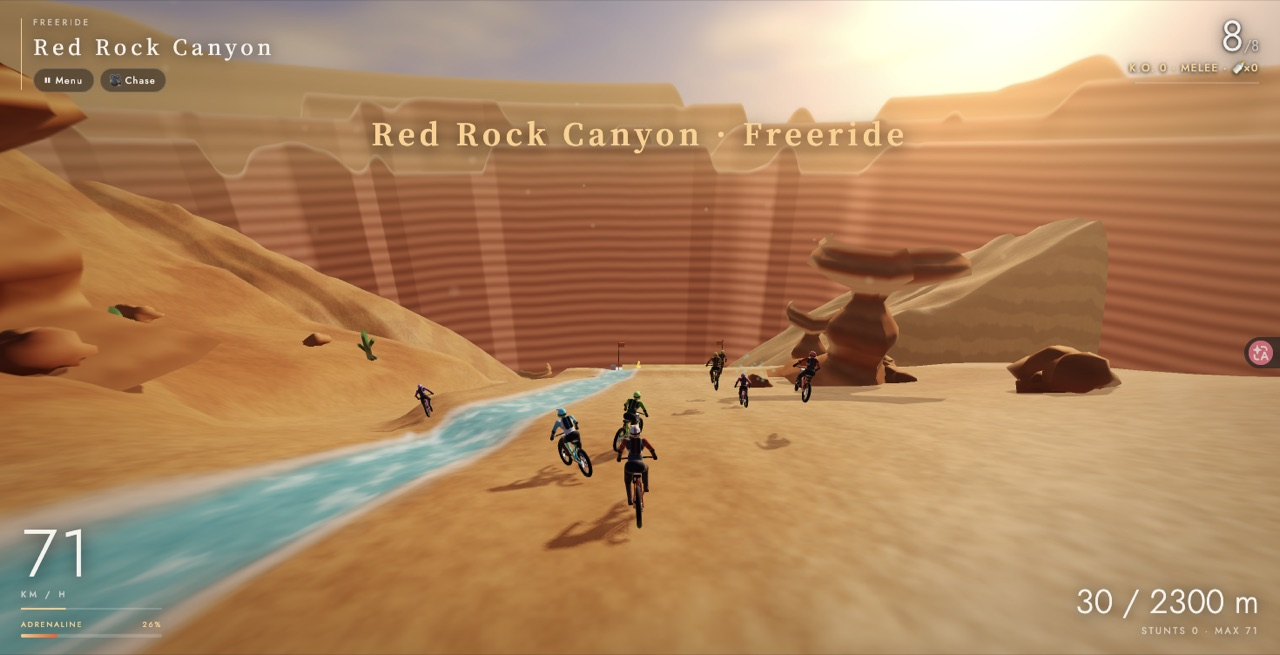
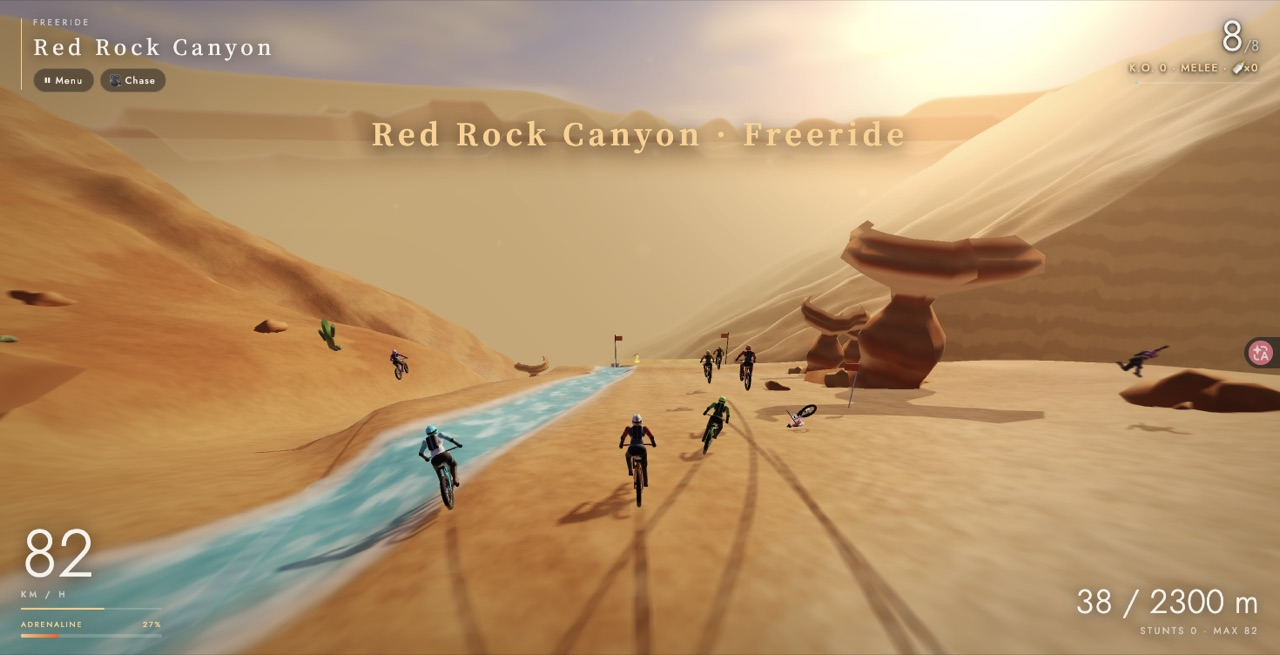
docs(v7-readme): update V7 screenshots and English/Chinese READMEs

diff --git a/README.md b/README.md
@@ -2,7 +2,7 @@
 
 <h1>CRAZYBIKE · Downhill Mayhem</h1>
 
-<p><strong>A single-file WebGPU &amp; WebGL2 procedural downhill mountain biking game — sculpted canyons, endless alpine trails, cliff drops, ink-ribbon aerial stunts, pickup-driven nitro/water-bottle combat, and live 3D camera inspection.</strong></p>
+<p><strong>A single-file WebGPU &amp; WebGL2 procedural downhill mountain biking game — 820 m seamless panoramic mountains, 4 sculpted biomes, persistent 3D carved tire tracks, realistic MTB bunny hops vs. cliff big air, ink-ribbon stunts, pickup combat, and live 3D camera inspection.</strong></p>
 
 <p>
   <a href="https://crazybike.yepw.dev"><strong>Play Live (crazybike.yepw.dev)</strong></a>
@@ -11,13 +11,13 @@
 </p>
 
 <p>
-  <img src="https://img.shields.io/badge/WebGPU%20%2B%20WebGL2-Dual%20Backend-0ea5e9?style=flat-square" alt="WebGPU + WebGL2">
-  <img src="https://img.shields.io/badge/Single%20File-335.6%20KB%20(~111%20KB%20gz)-10b981?style=flat-square" alt="Bundle Size">
+  <img src="https://img.shields.io/badge/WebGPU%20%2B%20WebGL2-10%20Pipelines-0ea5e9?style=flat-square" alt="WebGPU + WebGL2">
+  <img src="https://img.shields.io/badge/Single%20File-347.8%20KB%20(~114%20KB%20gz)-10b981?style=flat-square" alt="Bundle Size">
   <img src="https://img.shields.io/badge/Zero%20Deps-28%20Modules-f59e0b?style=flat-square" alt="Zero Dependencies">
-  <img src="https://img.shields.io/badge/Verify-19%2F19%20PASS-22c55e?style=flat-square" alt="Verify Passing">
+  <img src="https://img.shields.io/badge/Verify-20%2F20%20PASS-22c55e?style=flat-square" alt="Verify Passing">
 </p>
 
-<img src="docs/media/hero.jpg" alt="CrazyBike V6 Red Rock Canyon Downhill" width="100%">
+<img src="docs/media/hero.jpg" alt="CrazyBike V7 Red Rock Canyon Carved Tire Tracks & Downhill" width="100%">
 
 </div>
 
@@ -25,21 +25,18 @@
 
 ## Highlights
 
-- **Dual GPU Engine (`WebGPU` + `WebGL2`):** Single-source typed shader language (SSL) compiled at boot to both WGSL and GLSL ES 3.00 with crisp PCF directional shadows, volumetric sky scattering, ACES filmic tone mapping, bloom, and speed-adaptive atmospheric haze.
-- **4 Sculpted Procedural Biomes:**
-  - **Red Rock Canyon** — Stepped sandstone mesas, sculpted hoodoos, fluted saguaros, canyon creeks, and massive stratified cliff drops.
-  - **Pine Forest** — Jagged snow-capped granite peaks, valley cloud seas, drooping layered conifer boughs, boulders, and endless boundary-free mountain freeride.
-  - **Volcanic Ridge** — Smoking caldera crest with lava rim glow, glowing magma channels, and jagged basalt spires.
-  - **Hillside Town** — Mediterranean headlands, gleaming sunlit ocean waves, pitched-roof coastal villas, terraced stone steps, and soaring gulls.
-- **Pickup-Driven Combat & Biomechanical Melee:**
-  - Randomly spawned **Nitro Canisters** and **Water Bottles** along ramps, cliffs, and open lines replace infinite ammo refills.
-  - Thrown water bottles home onto targets only within bounded range (`≤ 26 m`). Out of pickups, pressing attack performs a randomized **Human Punch** or **Flying Kick** with custom 3-phase skeletal kinematics and distinct audio cues.
-  - **Strict Knockdown Rules:** Normal high-speed bumps trade paint safely; ragdoll knockdowns occur strictly from **Flying Kicks** or **Water Bottle** hits (plus a Settings toggle for casual freeride), with guaranteed upright recovery (`resetRiderPoseState`) on respawn.
-- **Zero-Crash Chained Stunts & Ink Ribbons:** Queue tricks continuously across massive drops (`dblcancan → whip → backflip → cancan`) with tapered brushstroke ink ribbons trails and no accidental mid-trick switches or infinite post-landing bounce loops.
-- **Live 3D Camera Preview & 8 Views:** Selecting any of the 8 camera rigs (`Chase`, `Low`, `Helmet FPV`, `Front Fork`, `High`, `Left`, `Right`, `Front`) immediately updates the 3D scene behind the menu and displays a live preview status badge. Helmet FPV automatically hides head geometry to guarantee zero visor clipping.
-- **Interactive Scenery & Wildlife:** Brushing trackside flora, rocks, and boulders triggers damped spring-sway animation, biome debris bursts, and material-specific impact audio without cheap instant crashes. Sparse biome wildlife (soaring hawks/gulls and galloping deer/bighorn) roam off-line.
-- **Memory-Aware Quality & Adaptive AI:** Automatically detects GPU/RAM/hardware threads (`Auto → Low / Balanced / High`, adjustable on pause or title) and dynamically paces 7 AI rivals (`strong / match / weak`) around your bike upgrades and sliding skill rating.
-- **Atmospheric Lo-Fi Audio Engine:** Web Audio synthesizer mixes warm Lo-Fi chill tracks, subtle tire/wind rush, stunt chimes, pickup pings, and biomechanical punches/kicks.
+- **Dual GPU Engine (`WebGPU` + `WebGL2`):** Single-source typed shader language (SSL) compiled at boot into **10 GPU pipelines** (`WGSL` & `GLSL ES 3.00`) featuring PCF directional shadows, physical sky scattering, ACES filmic tone mapping, bloom, and speed-adaptive atmospheric haze.
+- **820 m Seamless Panoramic Terrain (Zero Airborne Clipping):** Non-uniform horizon-stretched terrain mesh spans `-66.5 m` behind to `+820 m` ahead and `±560 m` laterally (`C.far = 1800 m`), melting into biome-matched horizon mist so launching off massive cliffs never exposes world edges.
+- **4 Sculpted Procedural Biomes & Atmospheric Vistas:**
+  - **Red Rock Canyon** — Smooth geological Moab canyon walls, eroded sandstone hoodoos, fluted saguaros with curved elbows, cactus scrub, desert creeks, and warm golden Monument Valley basin haze.
+  - **Pine Forest** — 7-tier overlapping drooping conifer boughs, alpine boulders, snow-capped jagged granite ranges, luminous valley cloud seas, and boundary-free endless freeride.
+  - **Volcanic Ridge** — Clustered stepped hexagonal basalt organ formations, magma streams, glowing fissures, caldera plume silhouette, and smoky volcanic basin haze.
+  - **Hillside Town** — Plumb terraced Mediterranean villas anchored on warm limestone plinths with overhanging terracotta roofs and shuttered French windows, coastal cypress/bougainvillea, perspective-projected glittering ocean waves, and soaring gulls.
+- **Realistic MTB Bunny Hops vs. Mega Cliff Big Air:** Pressing `Space` on flat or smooth trail terrain pops a responsive MTB bunny hop (`~0.48 m` quick tap, `~0.98 m` full charge), while kicker ramps and cliff drop-off lips launch explosive `11 m+` big air for sequential stunt chaining.
+- **Persistent Carved 3D Tire Tracks & Biome Ground Spray:** Dedicated `tracks` pipeline cuts terrain-hugging tread grooves, raised edge rims, and frothy creek wakes behind all riders, breaking cleanly across jumps and kicking up carve-directional dust plumes plus sandstone gravel, pine loam, obsidian ash sparks, or coastal grit.
+- **Pickup-Driven Combat & Biomechanical Melee:** Randomly spawned **Nitro Canisters** and **Water Bottles** (`≤ 26 m` bounded homing); when out of bottles, attacks randomly perform a **Human Punch** (side shove, no KO) or **Flying Kick** (close-range ragdoll KO), while normal rider/obstacle bumps never knock players off the bike and respawns recover strictly upright.
+- **Live 3D Camera Preview & 8 Views:** Clicking any camera view updates the background 3D scene immediately with a live right-hand preview status readout and automatic helmet visor clipping removal (`Helmet FPV`).
+- **Memory-Aware Quality, Adaptive AI & Lo-Fi Soundscape:** Hardware profiler scales shadows/foliage/wildlife (`Low / Balanced / High`), 7 AI rivals pace dynamically around upgrades and player skill EMA, and Web Audio mixes Lo-Fi tracks with subtle speed-scaled wind and biome impact cues.
 
 ---
 
@@ -48,22 +45,22 @@
 <table>
   <tr>
     <td width="50%">
-      <img src="docs/media/redrock.jpg" alt="Red Rock Canyon Nitro & Sculpted Hoodoos" width="100%">
-      <p align="center"><strong>Red Rock Canyon</strong> — Sculpted hoodoos, desert shrubs &amp; pickup canisters</p>
+      <img src="docs/media/redrock.jpg" alt="Red Rock Canyon Mega Drop & Seamless Horizon" width="100%">
+      <p align="center"><strong>Red Rock Canyon</strong> — 118 km/h canyon drop with Nitro pickups &amp; 820 m horizon haze</p>
     </td>
     <td width="50%">
-      <img src="docs/media/forest.jpg" alt="Endless Pine Forest & Alpine Peaks" width="100%">
-      <p align="center"><strong>Pine Forest</strong> — Endless freeride through drooping conifers &amp; snow-capped peaks</p>
+      <img src="docs/media/forest.jpg" alt="Pine Forest Layered Conifers & Carved Loam Tracks" width="100%">
+      <p align="center"><strong>Pine Forest</strong> — 7-tier conifers, valley cloud sea &amp; persistent loam tire ruts</p>
     </td>
   </tr>
   <tr>
     <td width="50%">
-      <img src="docs/media/volcano.jpg" alt="Volcanic Ridge Caldera & Basalt Spires" width="100%">
-      <p align="center"><strong>Volcanic Ridge</strong> — Smoking caldera glow, basalt spires &amp; magma streams</p>
+      <img src="docs/media/volcano.jpg" alt="Volcanic Ridge Clustered Basalt & Lava Haze" width="100%">
+      <p align="center"><strong>Volcanic Ridge</strong> — Hexagonal basalt organ clusters, caldera glow &amp; charred ruts</p>
     </td>
     <td width="50%">
-      <img src="docs/media/town.jpg" alt="Hillside Town Coastal Villas & Sea" width="100%">
-      <p align="center"><strong>Hillside Town</strong> — Coastal villas, sunlit ocean shimmer &amp; soaring seabirds</p>
+      <img src="docs/media/town.jpg" alt="Hillside Town Mediterranean Villas & Perspective Ocean" width="100%">
+      <p align="center"><strong>Hillside Town</strong> — Plumb Mediterranean villas, perspective sea shimmer &amp; soaring gulls</p>
     </td>
   </tr>
 </table>
@@ -81,7 +78,7 @@
 | Action | Keys | Notes |
 | --- | --- | --- |
 | **Steer / Pedal / Brake** | `WASD` / `Arrow Keys` | Carve slopes downhill, tuck, or corner-brake |
-| **Jump** | `Space` | Hold to charge · Release to launch off lips & cliff crests |
+| **Jump** | `Space` | Crisp bunny hop on flat trails · Mega launch on ramps & cliff crests |
 | **Aerial Stunt** | `Mid-Air WASD` / `Space` | Sequential ink-brush stunt chain (Zero Crash!) |
 | **Combat / Bottle** | `Q` `E` / `J` `K` | Throw picked-up Bottle (`≤ 26 m` homing), else random Punch / Flying Kick |
 | **Nitro Boost** | `Shift` | Burn adrenaline & picked-up Nitro Overdrive |
@@ -96,10 +93,10 @@
 Requires Node.js (tested on Node 20+, zero `npm install` packages needed):
 
 ```bash
-# Development build + full automated verification suite (19 checks)
+# Development build + full automated verification suite (20 checks)
 node build.js && npm run verify
 
-# Minified production single-file build -> dist/index.html (335.6 KB)
+# Minified production single-file build -> dist/index.html (347.8 KB)
 MIN=1 node build.js
 
 # Serve locally on port 8080 (open ?backend=webgl2 to force WebGL2 fallback)
@@ -114,10 +111,10 @@ npm start
 | --- | --- |
 | `00a_i18n.js` – `00c_quality.js` | Bilingual dictionary (`EN`/`ZH`), Lo-Fi music scales, memory/hardware quality profiler |
 | `01_gfx.js` – `02_shaderlib.js` | Dual `WebGPU` + `WebGL2` abstraction & SSL-to-WGSL/GLSL ES 3.00 transpiler |
-| `03_course.js` – `05_sky.js` | Seeded multi-biome heightfields, creeks, halfpipes, drops, pickups & 4-layer sky vistas |
+| `03_course.js` – `05_sky.js` | 820 m seamless stretched terrain, 2D-sculpted mountain vistas, cloud sea & perspective ocean |
 | `06_bikemesh.js` – `06b_rider_anim.js` | SDF-sculpted rider mesh (`11,181` verts / `21,076` tris), 3-phase melee kinematics & world props geometry |
-| `07_physics.js` – `09_combat.js` | Slope-adaptive bike dynamics, upright knockdown recovery, 8 cameras, chained tricks & pickup combat |
-| `10_particles.js` – `15_wildlife.js` | Ink stunt ribbons, biome debris, spring-sway prop hits (`Props.onHit`), water splashes & articulated wildlife |
+| `07_physics.js` – `09_combat.js` | Slope-relative bunny hops vs. cliff big air, upright respawn, 8 cameras, chained tricks & pickup combat |
+| `10_particles.js` – `15_wildlife.js` | 3D carved tire tracks pipeline (`tracks`), biome spray, ink ribbons, `Props.onHit`, grounded villas/flora & wildlife |
 | `16_career.js` – `99_main.js` | 12-event Career Tour, garage upgrades, Web Audio synthesizer, frosted glass UI & runtime hooks |
 
-`tools/verify-mvp.js` exercises WGSL/GLSL pipeline compilation, SDF rider synthesis, full biome race simulations, camera clearances, stunt chaining, boundary-free endless terrain, pickup/combat knockdown semantics, audio balance, and prop impact hits in headless Node.js.
+`tools/verify-mvp.js` runs **20** automated headless checks covering all 10 GPU shader pipelines, SDF rider synthesis, 4-mountain race simulations, camera clearances, stunt chaining, boundary-free endless terrain, pickup/combat KO semantics, horizon bounds, bunny-hop vs. ramp trajectories, and 3D tire track gaps.

diff --git a/README.zh-CN.md b/README.zh-CN.md
@@ -2,7 +2,7 @@
 
 <h1>CRAZYBIKE · 暴走山地速降</h1>
 
-<p><strong>单文件双端渲染（WebGPU + WebGL2）程序化山地速降竞速游戏 —— 雕刻感峡谷与高山地形、无尽林道、高空彩带特技、道具驱动氮气与水壶对战、以及实时 3D 机位预览。</strong></p>
+<p><strong>单文件双端渲染（WebGPU + WebGL2）程序化山地速降竞速游戏 —— 820 米无缝延伸全景山脉、四大雕刻级生态地貌、持续 3D 立体车辙轨迹、真实平地兔子跳与大断崖腾空、喷墨彩带特技及实时 3D 机位预览。</strong></p>
 
 <p>
   <a href="https://crazybike.yepw.dev"><strong>在线试玩 (crazybike.yepw.dev)</strong></a>
@@ -11,13 +11,13 @@
 </p>
 
 <p>
-  <img src="https://img.shields.io/badge/WebGPU%20%2B%20WebGL2-%E5%8F%8C%E5%BC%95%E6%93%8E%E6%B8%B2%E6%9F%93-0ea5e9?style=flat-square" alt="WebGPU + WebGL2">
-  <img src="https://img.shields.io/badge/%E5%8D%95%E6%96%87%E4%BB%B6-335.6%20KB%20(~111%20KB%20gz)-10b981?style=flat-square" alt="产物体积">
+  <img src="https://img.shields.io/badge/WebGPU%20%2B%20WebGL2-10%20%E6%9D%A1%E7%AE%A1%E7%BA%BF-0ea5e9?style=flat-square" alt="WebGPU + WebGL2">
+  <img src="https://img.shields.io/badge/%E5%8D%95%E6%96%87%E4%BB%B6-347.8%20KB%20(~114%20KB%20gz)-10b981?style=flat-square" alt="产物体积">
   <img src="https://img.shields.io/badge/%E9%9B%B6%E4%BE%9D%E8%B5%96-28%20%E4%B8%AA%E6%A8%A1%E5%9D%97-f59e0b?style=flat-square" alt="零外部依赖">
-  <img src="https://img.shields.io/badge/%E8%87%AA%E5%8A%A8%E9%AA%8C%E8%AF%81-19%2F19%20%E9%80%9A%E8%BF%87-22c55e?style=flat-square" alt="校验全部通过">
+  <img src="https://img.shields.io/badge/%E8%87%AA%E5%8A%A8%E9%AA%8C%E8%AF%81-20%2F20%20%E9%80%9A%E8%BF%87-22c55e?style=flat-square" alt="校验全部通过">
 </p>
 
-<img src="docs/media/hero.jpg" alt="CrazyBike V6 红岩大峡谷速降" width="100%">
+<img src="docs/media/hero.jpg" alt="CrazyBike V7 红岩大峡谷 3D 车辙与速降" width="100%">
 
 </div>
 
@@ -25,21 +25,18 @@
 
 ## 核心特性
 
-- **WebGPU + WebGL2 双渲染后端：** 内置单源强类型着色器语言（SSL），启动时实时编译为 WGSL 与 GLSL ES 3.00，提供清晰 PCF 定向阴影、物理瑞利/米氏大气散射、ACES 电影级色调映射与速度感泛光。
-- **四大雕刻级程序化地貌：**
-  - **红岩大峡谷（Red Rock Canyon）：** 层理砂岩方山、风蚀石林（Hoodoos）、棱柱仙人掌、峡谷溪流与多层速降断崖。
-  - **苍翠松林道（Pine Forest）：** 冰雪覆盖花岗岩雪峰、山谷云海、下垂分层松枝、棱角巨石与无限边界速降。
-  - **火山黑砂脊（Volcanic Ridge）：** 冒烟火山口与熔岩亮边、炽热岩浆河与锯齿玄武岩簇。
-  - **悬崖山城（Hillside Town）：** 地中海岬角远景、海面波光粼粼、斜坡尖顶海滨小屋与盘旋海鸥。
-- **道具刷新机制与拟真搏击动作：**
-  - 废除无限水壶补给，改为沿飞跃台、断崖与赛道随机刷新的 **氮气罐** 与 **水壶** 拾取道具。
-  - 水壶投掷严格限制有效追踪距离（`≤ 26 米`）；无水壶时按键随机触发 **人形直拳（Punch）** 或 **飞踹（Flying Kick）**，配合三阶段骨骼肢体动画与独立合成音效。
-  - **严格击倒判定：** 普通擦碰与碰撞仅互相挤压避让（不摔车）；**仅当被飞踹或水壶命中时** 触发布娃娃击倒摔飞（可在设置中关闭），且起身复位会彻底清零特技残留角度，保证车体笔直恢复骑行。
-- **零摔车连招特技与喷墨彩带：** 飞跃断崖时按顺序稳步做完当前动作再衔接下一招（`dblcancan → whip → backflip → cancan`），拖动自然笔刷质感喷墨彩带，落地无缝衔接蹬踏，消除弹跳循环。
-- **实时 3D 机位预览与 8 大视角：** 在视角菜单中点击任意机位（追尾、贴地、头盔第一视角、前叉、俯瞰、左侧、右侧、正面），右侧画面立即切换实时预览并同步展示当前机位状态浮标；头盔视角自动遮罩头部网格，彻底杜绝穿模。
-- **可交互场景动画与原生动物：** 擦碰草木、岩石时触发阻尼弹簧摇晃动画、对应生态碎屑粒子飞溅与撞击声效（碰撞障碍物不直接摔车）；远处低密度栖息盘旋飞鸟与奔跑四足野生动物。
-- **内存感知画质与自适应 AI：** 根据设备内存、CPU 核心与 GPU 自动匹配低 / 均衡 / 高画质，7 名 AI 对手会基于玩家车辆改装等级与历史水平动态微调强/中/弱梯队节奏。
-- **Lo-Fi 氛围音景：** Web Audio 实时合成沉浸式 Lo-Fi 节奏背景音轨、克制的风噪呼吸声、水壶/氮气拾取与踢拳打击声效。
+- **WebGPU + WebGL2 双引擎（10 条着色管线）：** 内置单源强类型着色器语言（SSL），启动时编译为 WGSL 与 GLSL ES 3.00，提供 PCF 定向阴影、物理大气散射、ACES 电影级色调映射、辉光与速度自适应大气雾。
+- **820 米无缝延伸全景山脉（彻底告别高空穿模）：** 采用指数延展地形网格（车手身后 `-66.5 m` 至前方 `+820 m`，两侧横向 `±560 m`，远裁剪面 `1800 m`），配合按山脉色调定制的地平线融合雾气，高速飞跃断崖高空俯瞰也完全看不到边界裁剪或露底。
+- **四大雕刻级生态地貌与非方块远景：**
+  - **红岩大峡谷（Red Rock Canyon）：** 消除体素锯齿的莫阿布平滑峡壁、风蚀砂岩石林（Hoodoos）与碎石基座、自然弯曲肘节仙人掌、沙漠溪流及融化入金色尘雾的纪念碑谷远方平顶山。
+  - **苍翠松林道（Pine Forest）：** 7 层重叠垂枝茂密松树、高山花岗岩、白雪峰峦与山谷云海、无边界自由林道速降。
+  - **火山黑砂脊（Volcanic Ridge）：** 三柱阶梯六棱柱玄武岩管风琴簇、熔岩流道、发光裂缝，远景火山口烟岚与余烬雾霭自然消隐。
+  - **悬崖山城（Hillside Town）：** 坐落于厚重石灰岩护坡台基上的垂直地中海海岸别墅（外挑陶瓦坡顶、细长百叶窗框、木制凉亭与柏树三角梅），配合真透视投影波光海面与盘旋海鸥。
+- **真实平地兔子跳 vs. 大断崖飞跃：** 在平地与缓坡轻点或蓄力按 `Space` 仅触发符合山地车物理感的干脆兔子跳（轻点 `~0.48 m`，满蓄 `~0.98 m`）；冲上木制跳台或悬崖边缘起跳点才爆发出 `11 m+` 腾空连招高度。
+- **持续 3D 立体车辙与生态碎屑飞溅：** 新增独立 `tracks` 管线，随车手压弯倾角、甩尾与落地在地面压出深色车胎纹沟槽与两侧尘土棱缘（溪流中转为白浪水迹，跃起自动断线不悬空）；后轮实时抛起对应群落的沙砾、腐殖松针、火山火星与白色水花。
+- **道具拾取对战与拟真拳脚动作：** 赛道与起跳点随机刷新 **氮气罐** 与 **水壶**（有限追踪 `≤ 26 m`）；无水壶时攻击随机打出 **人形直拳**（侧面推挤不击倒）或 **飞踹**（贴身踢飞击倒），擦碰对手或障碍物永不意外摔车，被击倒起身严格笔直复位。
+- **实时 3D 机位预览与 8 大视角：** 点击任意机位按钮即刻刷新背景 3D 预览，并在右下角实时显示当前机位说明；头盔第一视角自动裁剪头部网格实现零穿模。
+- **内存感知画质、自适应 AI 与 Lo-Fi 音景：** 自动识别设备内存/核心数分级画质（低/均衡/高），7 名 AI 随车辆改装与玩家表现动态调配强中弱节奏，搭配 Lo-Fi 背景鼓点与柔和风噪。
 
 ---
 
@@ -48,22 +45,22 @@
 <table>
   <tr>
     <td width="50%">
-      <img src="docs/media/redrock.jpg" alt="红岩大峡谷拾取氮气与风蚀石林" width="100%">
-      <p align="center"><strong>红岩大峡谷</strong> —— 风蚀石林、沙丘灌木与赛道道具拾取</p>
+      <img src="docs/media/redrock.jpg" alt="红岩大峡谷高空速降与无缝地平线" width="100%">
+      <p align="center"><strong>红岩大峡谷</strong> —— 118 km/h 断崖俯冲、氮气拾取与 820m 无缝远景</p>
     </td>
     <td width="50%">
-      <img src="docs/media/forest.jpg" alt="苍翠松林道雪山云海" width="100%">
-      <p align="center"><strong>苍翠松林道</strong> —— 无限边界穿梭垂枝松林与远方雪峰</p>
+      <img src="docs/media/forest.jpg" alt="苍翠松林道七层松枝与林地车辙" width="100%">
+      <p align="center"><strong>苍翠松林道</strong> —— 七层重叠松林、山谷云海与腐殖林道车辙</p>
     </td>
   </tr>
   <tr>
     <td width="50%">
-      <img src="docs/media/volcano.jpg" alt="火山黑砂脊熔岩与玄武岩" width="100%">
-      <p align="center"><strong>火山黑砂脊</strong> —— 冒烟火山口、熔岩河道与玄武岩尖峰</p>
+      <img src="docs/media/volcano.jpg" alt="火山黑砂脊六棱玄武岩与焦痕轨迹" width="100%">
+      <p align="center"><strong>火山黑砂脊</strong> —— 阶梯玄武岩柱簇、火山口烟岚与地面压弯车辙</p>
     </td>
     <td width="50%">
-      <img src="docs/media/town.jpg" alt="悬崖山城海滨别墅与海鸥" width="100%">
-      <p align="center"><strong>悬崖山城</strong> —— 山坡尖顶小屋、波光海湾与飞翔海鸥</p>
+      <img src="docs/media/town.jpg" alt="悬崖山城地中海海滨别墅与透视海浪" width="100%">
+      <p align="center"><strong>悬崖山城</strong> —— 台基稳固接地海滨别墅、真透视海浪微光与飞翔海鸥</p>
     </td>
   </tr>
 </table>
@@ -81,7 +78,7 @@
 | 操作 | 按键 | 说明 |
 | --- | --- | --- |
 | **转向 / 蹬踏 / 刹车** | `WASD` / 方向键 | 压弯贴地俯冲、冲刺提速或入弯控速 |
-| **跳跃起跳** | `Space` | 按住蓄力 · 松开从坡顶与断崖前沿腾空 |
+| **跳跃起跳** | `Space` | 平地触发真实山地车兔子跳 · 跳台与断崖唇口爆发腾空 |
 | **空中连招特技** | `空中 WASD` / `Space` | 高空连续喷墨特技（做完再接下一招 · 零摔车） |
 | **水壶 / 拳脚搏击** | `Q` `E` / `J` `K` | 有水壶则有限距离追踪投掷（≤26m），无道具时随机直拳或飞踹 |
 | **肾上腺素暴走** | `Shift` | 消耗肾上腺素或氮气道具加速冲刺 |
@@ -96,10 +93,10 @@
 依赖 Node.js（Node 20+，无需安装任何第三方 npm 包）：
 
 ```bash
-# 开发构建并运行全部 19 项自动化校验
+# 开发构建并运行全部 20 项自动化校验
 node build.js && npm run verify
 
-# 压缩构建生产单文件 -> dist/index.html (335.6 KB)
+# 压缩构建生产单文件 -> dist/index.html (347.8 KB)
 MIN=1 node build.js
 
 # 启动本地 8080 端口服务（访问 ?backend=webgl2 可强制测试 WebGL2 回退后端）
@@ -114,10 +111,10 @@ npm start
 | --- | --- |
 | `00a_i18n.js` – `00c_quality.js` | 中英双语词库、Lo-Fi 调式配乐表、内存/硬件自适应画质分级器 |
 | `01_gfx.js` – `02_shaderlib.js` | `WebGPU` + `WebGL2` 统一抽象层与 SSL → WGSL / GLSL ES 3.00 转译器 |
-| `03_course.js` – `05_sky.js` | 4 大山脉随机地形、溪流、U 形坡、断崖道具点位及 4 层远景山岚 |
-| `06_bikemesh.js` – `06b_rider_anim.js` | 11,181 顶点 SDF 车手模型、三段式直拳/飞踹人体骨骼及雕塑性环境物体网格 |
-| `07_physics.js` – `09_combat.js` | 坡度自适应物理、摔倒笔直复位、8 机位相机、连招系统与水壶/拳脚战斗 |
-| `10_particles.js` – `15_wildlife.js` | 喷墨彩带、生态碎屑、碰撞弹性摇晃（`Props.onHit`）、水花粒子及写实动物 |
+| `03_course.js` – `05_sky.js` | 820m 指数无缝延伸地形、2D 雕刻远景山岚、山谷云海与真透视海浪 |
+| `06_bikemesh.js` – `06b_rider_anim.js` | 11,181 顶点 SDF 车手模型、三段式直拳/飞踹人体骨骼及七层松枝/六棱玄武岩/坡屋顶网格 |
+| `07_physics.js` – `09_combat.js` | 平地兔子跳/跳台分离物理、摔倒笔直复位、8 机位相机、连招系统与水壶/拳脚战斗 |
+| `10_particles.js` – `15_wildlife.js` | `tracks` 持久 3D 车辙管线、生态颗粒飞溅、`Props.onHit` 弹簧摇晃、接地别墅植被与动物 |
 | `16_career.js` – `99_main.js` | 12 场生涯赛事、车库升级、Web Audio 音频合成、UI 系统及主循环集成 |
 
-`tools/verify-mvp.js` 在无头 Node.js 环境中对全套管线编译、SDF 建模、四大生态完整跑道审计、相机净空与预览、特技连招、无尽模式、水壶/拳脚严格击倒规则、音效平衡与障碍物受击动画执行全自动回归检查。
+`tools/verify-mvp.js` 在无头 Node.js 环境中对全套 **10** 条着色管线、SDF 建模、四大生态完整跑道、820m 地形延展范围、平地兔子跳 vs. 跳台抛高、3D 车辙与空中悬空断线、水壶/拳脚严格击倒规则执行 **20** 项全自动回归验证。
